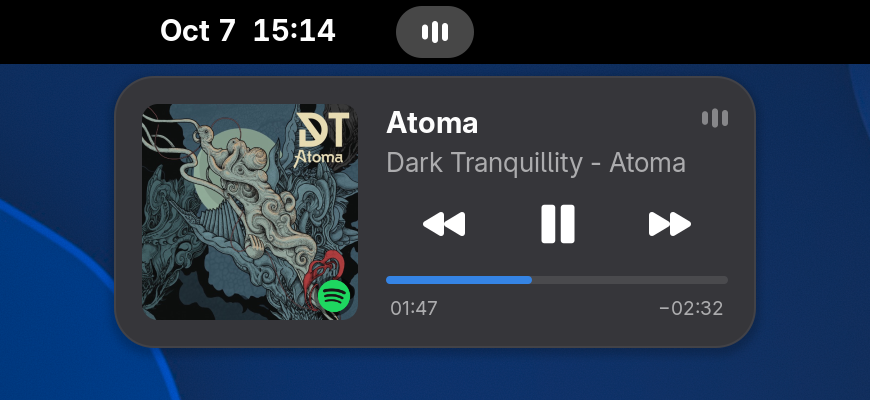
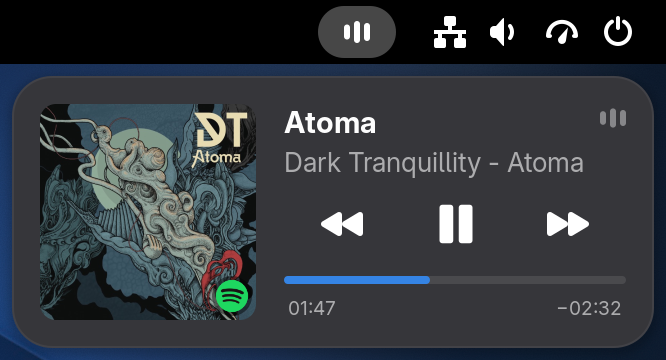
Retake the card and stack shots
The stack shows the tiles again. The button sits where it does by default,
in front of the system icons, instead of beside the clock with an empty
bar after it.

diff --git a/README.md b/README.md
@@ -30,7 +30,7 @@ player.
 The card in its own popup, opened from the panel button:
 
 <p align="center">
-  <img src="docs/screenshots/card.png" width="700" alt="A card with cover art, transport controls and a progress bar">
+  <img src="docs/screenshots/card.png" width="560" alt="A card with cover art, transport controls and a progress bar">
 </p>
 
 Several players at once: the one playing keeps the open card, the rest wait as
